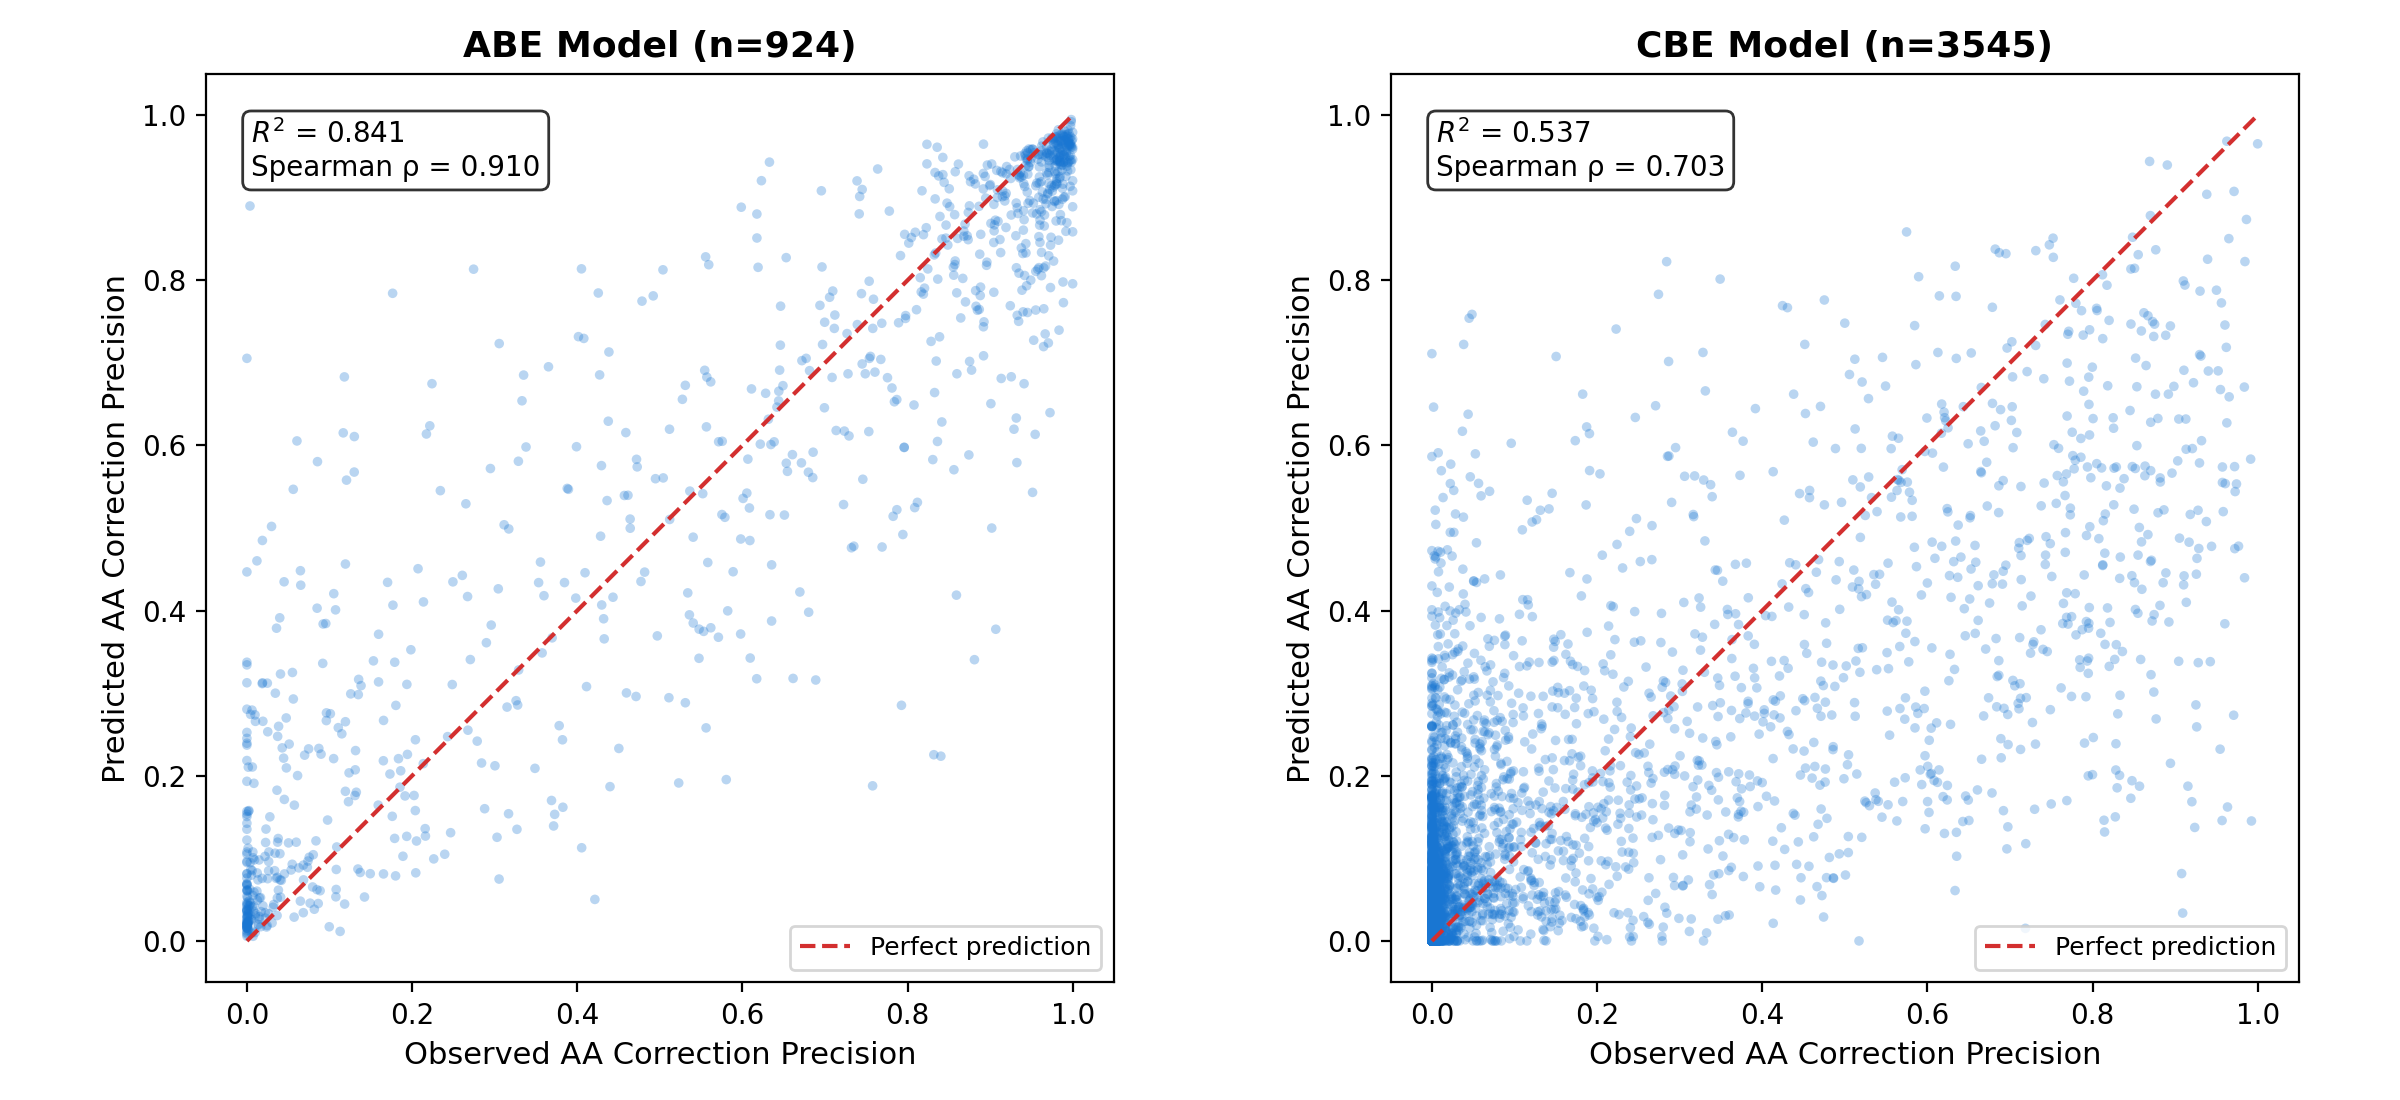
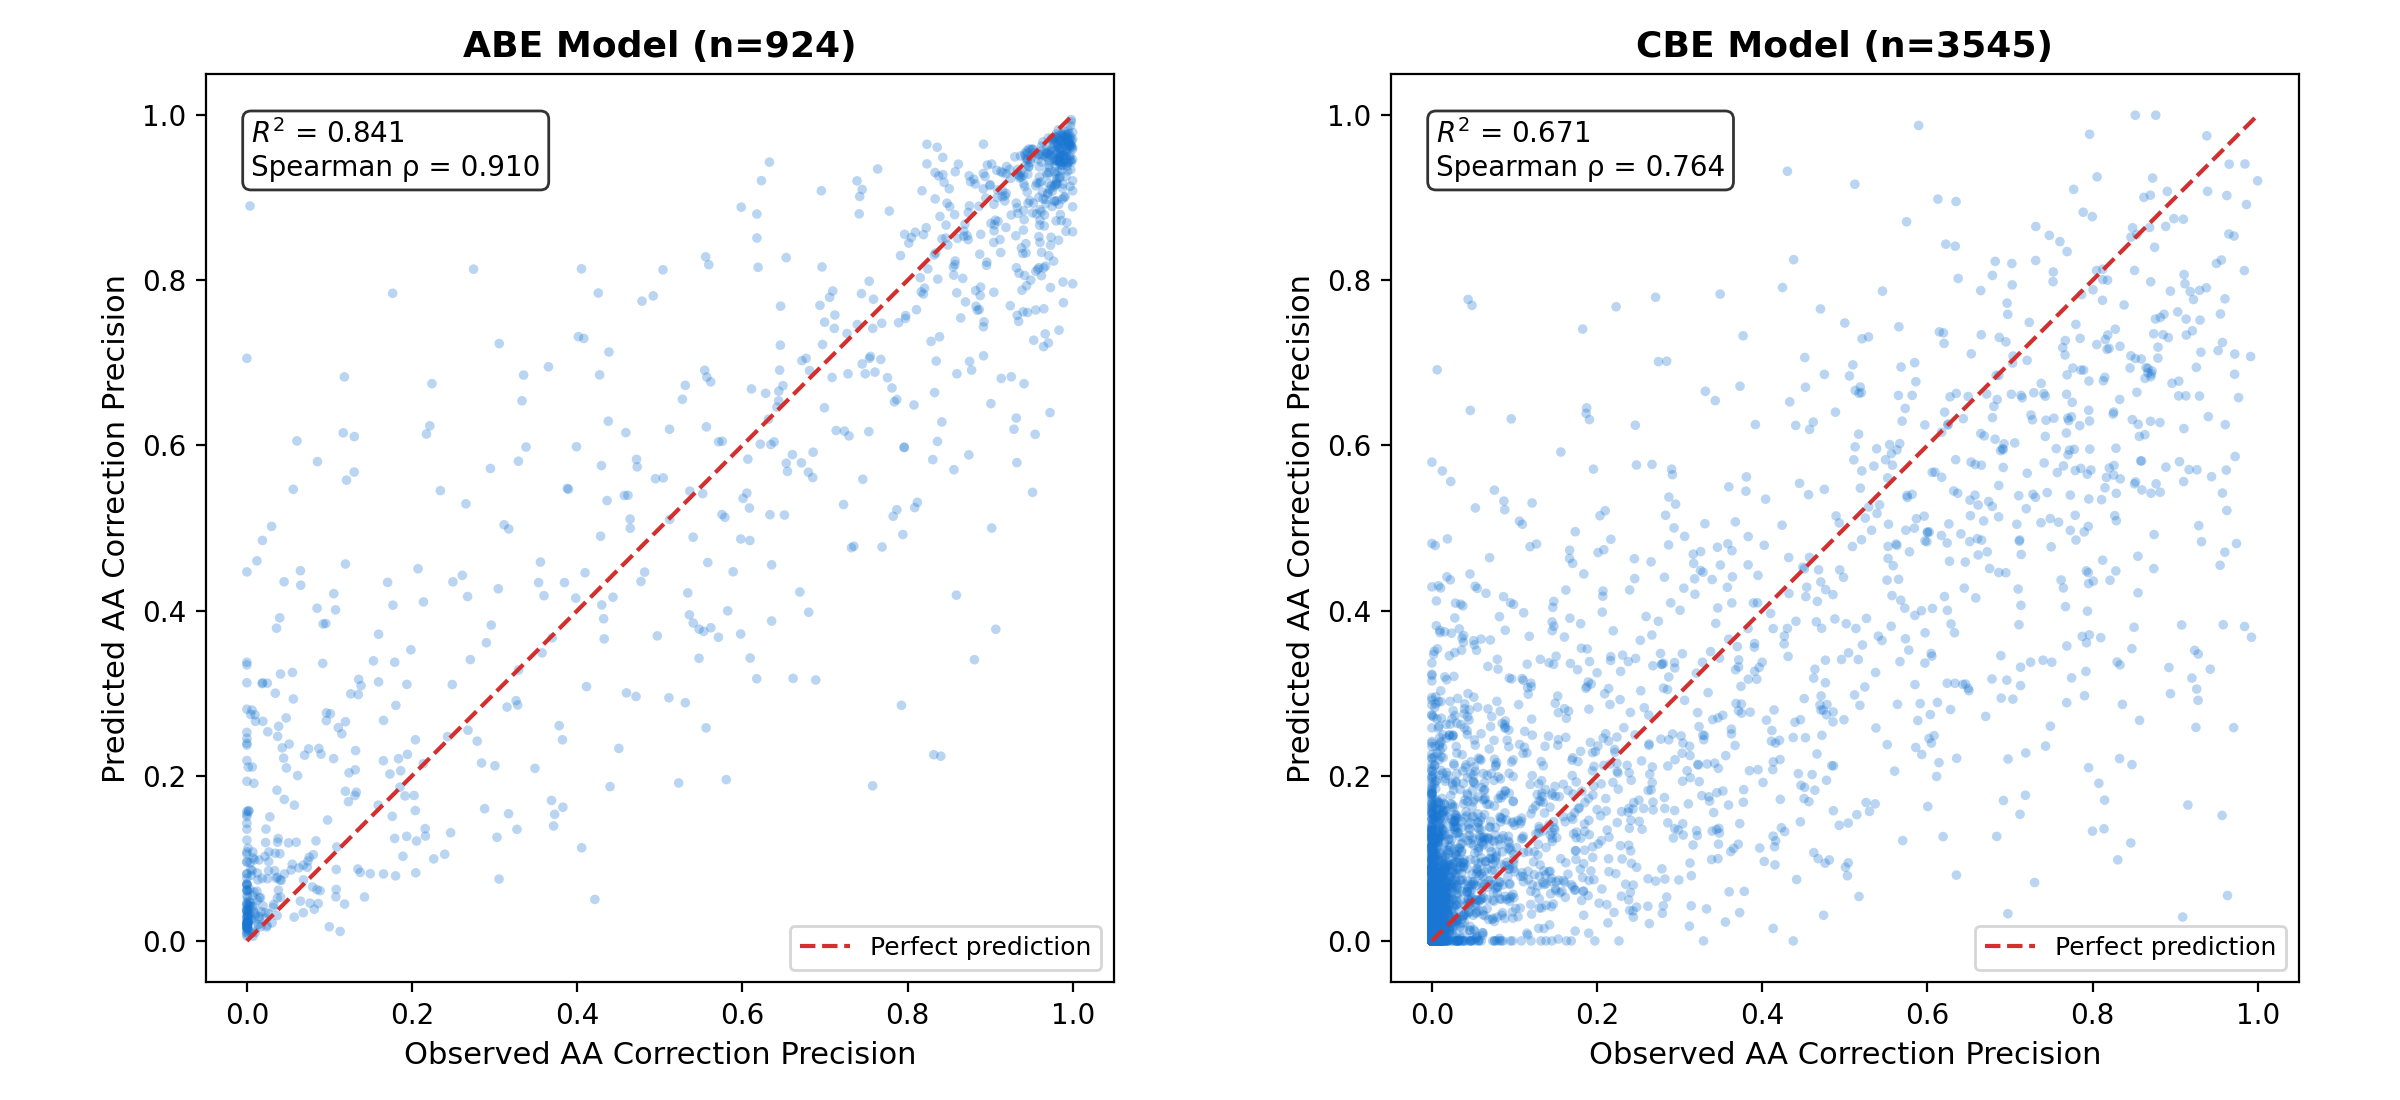
CBE ML model updated, updated corresponding figure

Changed region(s): [[0.5938, 0.1545, 0.9375, 0.8655], [0.6562, 0.3709, 0.6875, 0.4018]]

diff --git a/src/efficiencypredictorml.py b/src/efficiencypredictorml.py
@@ -57,12 +57,15 @@ def _melting_temp(seq):
     return 2 * at + 4 * gc
 
 
+CBE_EDITOR_ORDER = ['BE4', 'BE4-CP1028', 'AID', 'CDA', 'eA3A', 'evoAPOBEC']
+
+
 def extract_features(spacer, edit_position, cell_type='HEK293T',
                      seq_context=None, n_substrate_core=None,
-                     n_substrate_wide=None, pred_total_prob=None):
+                     n_substrate_wide=None, editor=None):
     """Build feature vector for a single guide.
 
-    Features (113 total):
+    Base features (113):
       - One-hot encoded 20bp spacer          (80)
       - GC content                            (1)
       - Normalised edit position              (1)
@@ -71,16 +74,14 @@ def extract_features(spacer, edit_position, cell_type='HEK293T',
       - Melting temperature (normalised)      (1)
       - Substrate C/A count in window 4-8     (1)
       - Cell type flag (0=mES, 1=HEK293T)    (1)
-    When available from training data:
-      - Flanking sequence features            (4)
-        - Left flank GC content               (1)
-        - Right flank GC content              (1)
-        - Left flank melting temp             (1)
-        - Right flank melting temp            (1)
+    Extended features (6):
+      - Flanking sequence GC + Tm             (4)
       - Substrate nts in core window (4-8)    (1)
       - Substrate nts in wide window (1-12)   (1)
-      - Arbab predicted total probability     (1)
-    Total with extras: 117
+    Editor identity (6):
+      - One-hot CBE editor                    (6)
+    CBE model: 125 features (113 + 6 extended + 6 editor).
+    ABE legacy: 113 features (base only, truncated at inference).
     """
     spacer = spacer.upper()
     feat = []
@@ -120,7 +121,6 @@ def extract_features(spacer, edit_position, cell_type='HEK293T',
     # Flanking sequence features from 56nt context (4)
     if seq_context and len(seq_context) >= 56:
         ctx = seq_context.upper()
-        # Spacer sits at positions 10-29 in the 56nt context
         left_flank = ctx[:10]
         right_flank = ctx[30:56]
         feat.append(sum(1 for s in left_flank if s in 'GC') / len(left_flank))
@@ -134,8 +134,11 @@ def extract_features(spacer, edit_position, cell_type='HEK293T',
     feat.append(n_substrate_core / 5.0 if n_substrate_core is not None else 0.0)
     feat.append(n_substrate_wide / 12.0 if n_substrate_wide is not None else 0.0)
 
-    # Arbab predicted total editing probability (1)
-    feat.append(pred_total_prob if pred_total_prob is not None else 0.0)
+    # Editor one-hot (6) — for CBE model; ignored by ABE (truncated to 113)
+    editor_oh = [0.0] * len(CBE_EDITOR_ORDER)
+    if editor and editor in CBE_EDITOR_ORDER:
+        editor_oh[CBE_EDITOR_ORDER.index(editor)] = 1.0
+    feat.extend(editor_oh)
 
     return feat
 
@@ -177,6 +180,7 @@ def _collect_editor_rows(df, editors, cell_types=('HEK293T', 'mES')):
             if 'pred' in opt:
                 sub = sub.rename(columns={opt['pred']: 'pred_total_prob'})
             sub['cell_type'] = ct
+            sub['editor'] = editor
             rows.append(sub)
 
     combined = pd.concat(rows, ignore_index=True)
@@ -187,18 +191,26 @@ def _collect_editor_rows(df, editors, cell_types=('HEK293T', 'mES')):
     return combined
 
 
-def _df_to_Xy(combined):
-    """Convert a preprocessed dataframe to feature matrix X and target array y."""
-    X = np.array([
-        extract_features(
+def _df_to_Xy(combined, n_features=None):
+    """Convert a preprocessed dataframe to feature matrix X and target array y.
+
+    Args:
+        combined: preprocessed DataFrame with gRNA, Editing position, cell_type, target.
+        n_features: if set, truncate each feature vector to this length.
+                    Use 125 for CBE (119 base + 6 editor one-hot).
+                    Use 113 for ABE legacy (base features only).
+    """
+    feats = []
+    for _, row in combined.iterrows():
+        f = extract_features(
             row['gRNA (20nt)'], int(row['Editing position']), row['cell_type'],
             seq_context=row.get('seq_context'),
             n_substrate_core=pd.to_numeric(row.get('n_substrate_core'), errors='coerce'),
             n_substrate_wide=pd.to_numeric(row.get('n_substrate_wide'), errors='coerce'),
-            pred_total_prob=pd.to_numeric(row.get('pred_total_prob'), errors='coerce'),
+            editor=row.get('editor'),
         )
-        for _, row in combined.iterrows()
-    ])
+        feats.append(f[:n_features] if n_features else f)
+    X = np.array(feats)
     y = combined['target'].values.astype(float)
     return X, y
 
@@ -208,10 +220,12 @@ def _preprocess_cbe():
 
     Pulls all 6 CBE editors (BE4, BE4-CP1028, AID, CDA, eA3A, evoAPOBEC),
     both cell types, filters by read count, returns (X, y).
+    Uses 125 features (119 sequence/context + 6 editor one-hot).
+    At inference, editor is set to BE4.
     """
     df = pd.read_csv(CBE_CSV, low_memory=False)
     combined = _collect_editor_rows(df, CBE_EDITORS)
-    return _df_to_Xy(combined)
+    return _df_to_Xy(combined, n_features=125)
 
 
 def _preprocess_abe():
@@ -409,8 +423,17 @@ def predict_efficiency(spacer, edit_position, modality='CBE', cell_type='HEK293T
         float in [0, 1] — predicted AA correction precision
     """
     model = _load_model(modality)
-    feat = extract_features(spacer, edit_position, cell_type)
-    # Truncate to match model's expected feature count (ABE legacy: 113)
+    # Compute substrate counts from the spacer (matching Arbab training data)
+    s = spacer.upper()
+    substrate_nt = 'C' if modality == 'CBE' else 'A'
+    n_core = sum(1 for c in s[3:8] if c == substrate_nt)
+    n_wide = sum(1 for c in s[0:12] if c == substrate_nt)
+    # CBE inference uses BE4 editor identity; ABE features get truncated to 113
+    editor = 'BE4' if modality == 'CBE' else None
+    feat = extract_features(spacer, edit_position, cell_type,
+                            n_substrate_core=n_core,
+                            n_substrate_wide=n_wide,
+                            editor=editor)
     n_expected = model.n_features_in_
     features = np.array([feat[:n_expected]])
     pred = model.predict(features)[0]